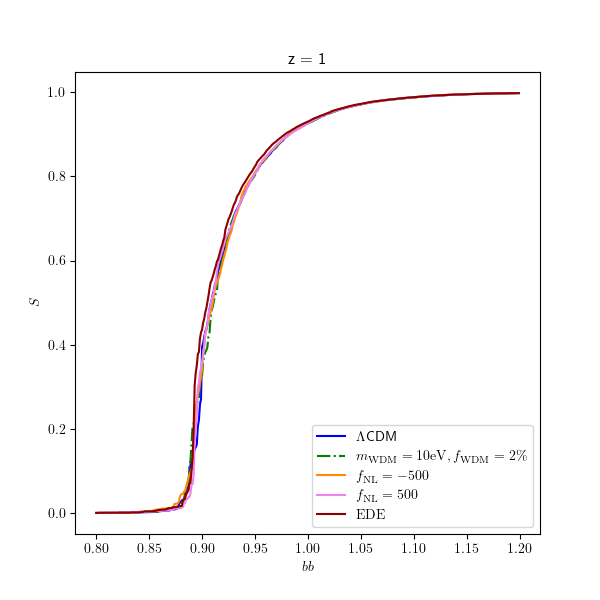
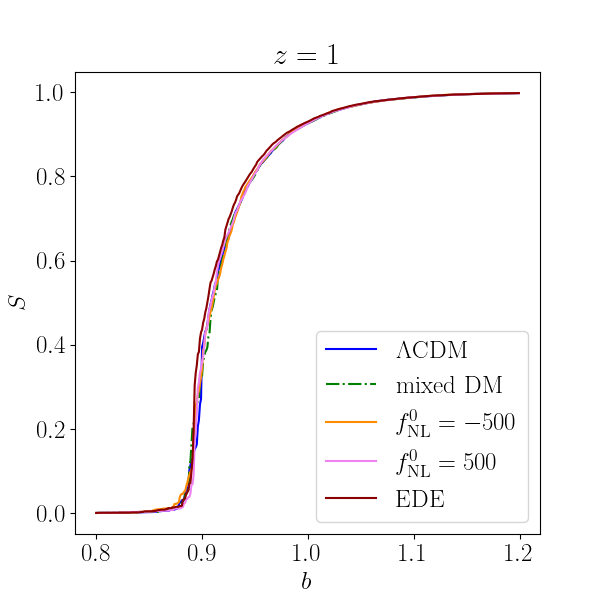
commit

diff --git a/plot_threshold_2.py b/plot_threshold_2.py
@@ -31,12 +31,13 @@ if __name__ == "__main__" :
     #snapshots = ["benchM","NG_F500","G_m500","NG_F500_m500","NG_Fminus500","NG_Fminus500_m500","G_ViVi"]
     #labels = [r"$\Lambda$CDM", "fnl = -500", "m = 500 eV", "WDM & fnl = -500", "fnl = 500", "WDM & fnl = 500",r"$m_{\rm WDM} = 10$ ev, $f_{\rm WDM}$ = 2%"]
 
-    snapshots = ["benchM","NG_F500","G_m500","NG_F500_m500","NG_Fminus500","NG_Fminus500_m500", "G_ViVi","NG_ViVi" , "NG_Fminus500_ViVi","NEDE", "NsPNG_EDE_F500"]
+    snapshots = ["benchM","NG_F500","G_m500","NG_F500_m500","NG_Fminus500","NG_Fminus500_m500", "G_ViVi","NG_ViVi" , "NG_Fminus500_ViVi","NEDE", "NsPNG_EDE_F500","NBM"]
 
-    labels = [r"$\Lambda{\rm CDM}$", "fnl = -500", "m = 500 eV", "WDM & fnl = -500", "fnl = 500", "WDM & fnl = 500", r"mixed DM", r"$f_{\rm NL}^0 = -500$ \& mixed DM", r"$f_{\rm NL}^0$ = 500 \& mixed DM", r"EDE", r"$f_{\rm NL}^0 = -300$ \& EDE", r"$f_{\rm NL}^0 = -1100$ \& EDE"]
+    labels = [r"$\Lambda{\rm CDM}$", "fnl = -500", "m = 500 eV", "WDM & fnl = -500", "fnl = 500", "WDM & fnl = 500", r"mixed DM", r"$f_{\rm NL}^0 = -500$ \& mixed DM", r"$f_{\rm NL}^0$ = 500 \& mixed DM", r"EDE", r"$f_{\rm NL}^0 = -300$ \& EDE", r"$f_{\rm NL}^0 = -1100$ \& EDE",r"$\Lambda {\rm CDM~2}$"]
 
     indices_hdm = [0,1,4,6,7,8]
     indices_hdm = [0,1,4,6,9]
+    indices_hdm = [0,12]
 
     #indices_hdm = [0,2,6] #WDM !
 
@@ -46,16 +47,16 @@ if __name__ == "__main__" :
     lss = ["-", "-", "-.", "--", "-", "--", "-", "--", "--"]
     couleurs = ["blue", "orange", "green", "orange", "fuchsia", "fuchsia", "green", "orange", "fuchsia"]
 
-    snapshots = ["benchM","NG_F500","G_m500","NG_F500_m500","NG_Fminus500","NG_Fminus500_m500", "G_ViVi","NG_ViVi" , "NG_Fminus500_ViVi","NEDE", "NsPNG_EDE_F500"]
+    snapshots = ["benchM","NG_F500","G_m500","NG_F500_m500","NG_Fminus500","NG_Fminus500_m500", "G_ViVi","NG_ViVi" , "NG_Fminus500_ViVi","NEDE", "NsPNG_EDE_F500","NBM"]
 
 
-    labels = [r"$\Lambda{\rm CDM}$", r"$f_{\rm NL}^0 = -500$", "m = 500 eV", "WDM & fnl = -500", r"$f_{\rm NL}^0 = 500$", "WDM & fnl = 500", r"${\rm mixed~DM}$", r"$f_{\rm NL}^0 = -500~\&~{\rm mixed~DM}$", r"$f_{\rm NL}^0 = 500~\&~{\rm mixed~DM}$", r"${\rm EDE}$", r"$f_{\rm NL}^0 = -300~\&~{\rm EDE}$", r"$f_{\rm NL}^0 = -1100~\&~ {\rm EDE}$"]
+    labels = [r"$\Lambda{\rm CDM}$", r"$f_{\rm NL}^0 = -500$", "m = 500 eV", "WDM & fnl = -500", r"$f_{\rm NL}^0 = 500$", "WDM & fnl = 500", r"${\rm mixed~DM}$", r"$f_{\rm NL}^0 = -500~\&~{\rm mixed~DM}$", r"$f_{\rm NL}^0 = 500~\&~{\rm mixed~DM}$", r"${\rm EDE}$", r"$f_{\rm NL}^0 = -300~\&~{\rm EDE}$", r"$f_{\rm NL}^0 = -1100~\&~ {\rm EDE}$",r"$\Lambda {\rm CDM~2}$"]
 
     #indices_hdm = [0,7,8,10,11]
     #indices_hdm = [0,2,6] #WDM !
 
-    lss = ["-", "-", "-.", "--", "-", "--", "-.", "--", "--","-",":","--"]
-    couleurs = ["blue", "darkorange", "green", "darkorange", "violet", "violet", "green", "darkorange", "violet","darkred","darkred","darkred"]
+    lss = ["-", "-", "-.", "--", "-", "--", "-.", "--", "--","-",":","--","--"]
+    couleurs = ["blue", "darkorange", "green", "darkorange", "violet", "violet", "green", "darkorange", "violet","darkred","darkred","darkred","blue"]
 
 
 

diff --git a/extremateur.py b/extremateur.py
@@ -31,12 +31,12 @@ def count_pairs_query_ball_point(points_A, tree_B, r):
 
 n = int(sys.argv[1])
 i = int(sys.argv[2])
-P = 20
+P = 5
 
 print(n, i)
 
 pre = "/data100/fcastillo/RESULT/"
-snapshots = ["benchM","NG_F500","G_m500","NG_F500_m500","NG_Fminus500","NG_Fminus500_m500", "G_ViVi","NG_ViVi" , "NG_Fminus500_ViVi","NEDE", "NsPNG_EDE_F500","NsPNG_EDE_F1833"]
+snapshots = ["benchM","NG_F500","G_m500","NG_F500_m500","NG_Fminus500","NG_Fminus500_m500", "G_ViVi","NG_ViVi" , "NG_Fminus500_ViVi","NEDE", "NsPNG_EDE_F500","NsPNG_EDE_F1833","NBM"]
 data = pre + snapshots[n]+"/"+str(i)+"_densite.fits"
 
 R = 2
@@ -87,8 +87,8 @@ x = np.arange(512)
 y = np.arange(512)
 z = np.arange(512)
 
-for j in [0,1] :
-    for k in [2,3] :
+for j in range(4) :
+    for k in range(j,4) :
 
         print(j, k)
         result_k = result[result[:,3]==k][:,0:3] % 512
@@ -126,10 +126,13 @@ for j in [0,1] :
         tree_r = KDTree(data_random, boxsize=512)
 
         r_small = np.linspace(0.1, 10, 80)  # 10 points entre 0 et 1
-        r_large = np.geomspace(10, 40, 40)  # 30 points entre 1 et 40 (logarithmique)
+        if ((j==0 and k==2) or (j==0 and k ==3) or (j==1 and k==2) or (j==1 and k ==3)):
+            r_large = np.geomspace(10, 40, 40)  # 30 points entre 1 et 40 (logarithmique)
+        else :
+            r_large = np.geomspace(10, 40, 20)  # 30 points entre 1 et 40 (logarithmique)
         r_bins = np.concatenate((r_small, r_large))
 
-        r_bins=np.linspace(40,80,10)
+        #r_bins=np.linspace(40,80,10)
 
         DD_counts = np.array([count_pairs_query_ball_point(points_k, KDTree(points_j, boxsize=512), r)
                             for r in r_bins[1:]])
@@ -149,4 +152,8 @@ for j in [0,1] :
         print(DRj_counts)
         print(correlation, np.array(correlation))
 
-        np.save(f"/data100/fcastillo/RESULT/extrema/snapshot_{n}_{i}_zeta_{k}_{j}_s{R}_P{P}_tres_grand_tres_loin.txt", np.array(correlation))
+        if ((j==0 and k==2) or (j==0 and k ==3) or (j==1 and k==2) or (j==1 and k ==3)):
+            np.save(f"/data100/fcastillo/RESULT/extrema/snapshot_{n}_{i}_zeta_{k}_{j}_s{R}_P{P}_tres_grand_loin.txt", np.array(correlation))
+        else:
+            np.save(f"/data100/fcastillo/RESULT/extrema/snapshot_{n}_{i}_zeta_{k}_{j}_s{R}_P{P}_tres_grand.txt", np.array(correlation))
+

diff --git a/plot_correlations_2.py b/plot_correlations_2.py
@@ -32,17 +32,18 @@ if __name__ == "__main__" :
     #labels = [r"$\Lambda$CDM", "fnl = -500", "m = 500 eV", "WDM & fnl = -500", "fnl = 500", "WDM & fnl = 500",r"$m_{\rm WDM} = 10$ ev, $f_{\rm WDM}$ = 2%"]
 
     snapshots = ["benchM","NG_F500","G_m500","NG_F500_m500","NG_Fminus500","NG_Fminus500_m500", "G_ViVi", "NG_ViVi", "NG_Fminus500_ViVi"]
-    snapshots = ["benchM","NG_F500","G_m500","NG_F500_m500","NG_Fminus500","NG_Fminus500_m500", "G_ViVi","NG_ViVi" , "NG_Fminus500_ViVi","NEDE", "NsPNG_EDE_F500","NsPNG_EDE_F1833"]
+    snapshots = ["benchM","NG_F500","G_m500","NG_F500_m500","NG_Fminus500","NG_Fminus500_m500", "G_ViVi","NG_ViVi" , "NG_Fminus500_ViVi","NEDE", "NsPNG_EDE_F500","NsPNG_EDE_F1833","NBM"]
 
 
-    labels = [r"$\Lambda{\rm CDM}$", r"$f_{\rm NL}^0 = -500$", "m = 500 eV", "WDM & fnl = -500", r"$f_{\rm NL}^0 = 500$", "WDM & fnl = 500", r"${\rm mixed~DM}$", r"$f_{\rm NL}^0 = -500~\&~{\rm mixed~DM}$", r"$f_{\rm NL}^0 = 500~\&~{\rm mixed~DM}$", r"${\rm EDE}$", r"$f_{\rm NL}^0 = -300~\&~{\rm EDE}$", r"$f_{\rm NL}^0 = -1100~\&~{\rm EDE}$"]
+    labels = [r"$\Lambda{\rm CDM}$", r"$f_{\rm NL}^0 = -500$", "m = 500 eV", "WDM & fnl = -500", r"$f_{\rm NL}^0 = 500$", "WDM & fnl = 500", r"${\rm mixed~DM}$", r"$f_{\rm NL}^0 = -500~\&~{\rm mixed~DM}$", r"$f_{\rm NL}^0 = 500~\&~{\rm mixed~DM}$", r"${\rm EDE}$", r"$f_{\rm NL}^0 = -300~\&~{\rm EDE}$", r"$f_{\rm NL}^0 = -1100~\&~{\rm EDE}$",r"$\Lambda {\rm CDM~2}$"]
 
     indices_hdm = [0,7,8,10,11]
     #indices_hdm = [0,2,6]
-    #indices_hdm = [0,1,4,6,9]
+    indices_hdm = [0,1,4,6,9]
+    indices_hdm = [0,12]
 
-    ls = ["-", "-", "-.", "--", "-", "--", "-.", "--", "--","-",":","--"]
-    couleurs = ["blue", "darkorange", "green", "darkorange", "violet", "violet", "green", "darkorange", "violet","darkred","darkred","darkred"]
+    ls = ["-", "-", "-.", "--", "-", "--", "-.", "--", "--","-",":","--","--"]
+    couleurs = ["blue", "darkorange", "green", "darkorange", "violet", "violet", "green", "darkorange", "violet","darkred","darkred","darkred","blue"]
 
 
 
@@ -319,6 +320,8 @@ if __name__ == "__main__" :
         k +=1
 
         for p in range(4):
+
+            _type = ["PW", "PV", "FW","FV"] [p]
 
             for d in range(2):
                 place = places[str(p) + str(d)]

diff --git a/plot_percolation.py b/plot_percolation.py
@@ -9,7 +9,7 @@ from skeletonnateur_hpc import*
 from matplotlib import gridspec
 import matplotlib
 
-
+matplotlib.rcParams.update({'font.size': 18})
 matplotlib.rcParams['text.usetex'] = True
 matplotlib.rcParams["figure.facecolor"]='w'
 matplotlib.rcParams['text.latex.preamble'] = r'\usepackage{amsmath}'
@@ -50,7 +50,7 @@ if __name__ == "__main__" :
     couleurs = ["blue", "darkred", "darkred","darkorange","violet"]
 
     snapshots = ["benchM", "G_ViVi","NG_F500", "NG_Fminus500","NEDE"]
-    labels = [r"$\Lambda$CDM", r"$m_{\rm WDM} = 10  {\rm eV}, f_{\rm WDM} = 2 \%$",  r"$f_{\rm NL} = -500$", r"$f_{\rm NL} = 500$ ", r"${\rm EDE}$"]
+    labels = [r"$\Lambda {\rm CDM}$", r"${\rm mixed~DM}$",  r"$f_{\rm NL}^0 = -500$", r"$f_{\rm NL}^0 = 500$ ", r"${\rm EDE}$"]
 
 
     lss = ["-", "-.", "-",  "-","-"]
@@ -86,7 +86,7 @@ if __name__ == "__main__" :
 
         axes = plt.gca()
 
-        axes.title.set_text (f"z = {Redshifts[i]}")
+        axes.title.set_text (r"$z = "+f"{Redshifts[i]}"+r"$")
 
 
         for j in range(len(snapshots)):
@@ -106,7 +106,7 @@ if __name__ == "__main__" :
 
                 axes.plot(np.arange(0.8,1.2,0.001),percole, color= couleur, ls = ls, label=label)
                 axes.set_ylabel(r"$S$")
-                axes.set_xlabel(r"$bb$")
+                axes.set_xlabel(r"$b$")
 
                 axes.legend() 
             
@@ -172,15 +172,16 @@ if __name__ == "__main__" :
 
             axes.set_xlabel(r"$z$")
             if d == 0 : axs[d].set_ylabel(r"${\rm Phase~transition}$")
-            if d == 1 : axs[d].set_ylabel(r"$\Delta / \Lambda$CDM")
+            if d == 1 : axs[d].set_ylabel(r"$\Delta / \Lambda {\rm CDM}$")
 
-            if d == 0 : axs[d].legend(fontsize=8)
+            #if d == 0 : axs[d].legend(fontsize=12)
 
 
 
     axs[0].invert_xaxis()
     axs[1].invert_xaxis()
 
+    plt.tight_layout()
     plt.savefig(f"percole_transition.pdf")
     plt.savefig(f"percole_transition.png")
 

diff --git a/plot_delta.py b/plot_delta.py
@@ -16,7 +16,7 @@ matplotlib.rcParams["figure.facecolor"]='w'
 matplotlib.rcParams['text.latex.preamble'] = r'\usepackage{amsmath}'
 
 snapshots = ["benchM","NG_F500","G_m500","NG_F500_m500","NG_Fminus500","NG_Fminus500_m500", "G_ViVi","NG_ViVi" , "NG_Fminus500_ViVi","NEDE", "NsPNG_EDE_F500","NsPNG_EDE_F1833"]
-labels = [r"$\Lambda$CDM", r"$f_{\rm NL} = -500$", "m = 500 eV", "WDM & fnl = -500", r"$f_{\rm NL} = 500$", "WDM & fnl = 500", r"$m_{\rm WDM} = 10~{\rm eV}, f_{\rm WDM} = 2~\%$", r"$f_{\rm NL} = -500~\&~{\rm mixed~DM}$", r"$f_{\rm NL} = 500~\&~{\rm mixed~DM}$", r"${\rm EDE}$", r"$f_{\rm NL} = -300~\&~{\rm EDE}$", r"$f_{\rm NL} = -1100~\&~{\rm EDE}$"]
+labels = [r"$\Lambda {\rm CDM}$", r"$f_{\rm NL}^0 = -500$", "m = 500 eV", "WDM & fnl = -500", r"$f_{\rm NL}^0 = 500$", "WDM & fnl = 500", r"$m_{\rm WDM} = 10~{\rm eV}, f_{\rm WDM} = 2~\%$", r"$f_{\rm NL} = -500~\&~{\rm mixed~DM}$", r"$f_{\rm NL} = 500~\&~{\rm mixed~DM}$", r"${\rm EDE}$", r"$f_{\rm NL} = -300~\&~{\rm EDE}$", r"$f_{\rm NL} = -1100~\&~{\rm EDE}$"]
 
 z= [15,12, 10, 8, 5,3,1,0.5,0.25,0]
 indices_z = [5,6,8,9]
@@ -54,7 +54,7 @@ if True : #for Xmax in [50,100,500]:
             z = redshifts[i]
             print(z)
 
-            axes.set_ylabel(r"PDF")
+            axes.set_ylabel(r"${\rm PDF}$")
             data = pre + snapshots[n]+"/"+str(z)+"_densite_smooth2.fits"
 
             hdul = fits.open(data)

diff --git a/plot_minkowski2.py b/plot_minkowski2.py
@@ -54,6 +54,20 @@ if __name__ == "__main__" :
     ls = ["-", "-.", "-",  "-","-"]
     couleurs = ["blue", "green", "darkorange","violet","darkred"]
 
+    snapshots = ["benchM", "G_m500","G_ViVi"]
+    labels = [r"$\Lambda{\rm CDM}$", r"$m_{\rm WDM} = 500 {\rm ~eV}$", r"${\rm mixed~DM}$"]
+
+
+    ls = ["-", "-", "-."]
+    couleurs = ["blue", "green", "green"]
+
+    snapshots = ["benchM", "NBM"]
+    labels = [r"$\Lambda{\rm CDM}$", r"$\Lambda{\rm CDM~2}$"]
+
+
+    ls = ["-", "--"]
+    couleurs = ["blue", "blue"]
+
 
     plt.figure(figsize=(15,10))
     places = {
@@ -152,7 +166,7 @@ if __name__ == "__main__" :
                         else :
                             axes.plot(X[mask], ((data[p][mask] - lcdm[p][mask])), color=couleurs[j], ls=ls[j],label=labels[j])
                             axes.set_ylabel(r"$\Delta$")
-                        if d ==1 and i == len(snapshots)-1: axes.set_xlabel(r"${\rm threshold}~[\sigma]$")
+                        if d ==1 and i == 4: axes.set_xlabel(r"${\rm threshold}~[\sigma]$")
                         if j == len(snapshots)-1 and i == 1 and d == 0 and p == 0: 
                             pass#axes.legend(fontsize=12) 
 

diff --git a/dispersateur_tout.py b/dispersateur_tout.py
@@ -6,12 +6,13 @@ import time
 
 pre = "/data100/fcastillo/RESULT/"
 #snapshots = ["benchM","NG_F500","G_m500","NG_F500_m500","NG_Fminus500","NG_Fminus500_m500", "G_ViVi", "NG_ViVi", "NG_Fminus500_ViVi"]
-snapshots = ["SIM0N_BIG","SIM1N_BIG","SIM2N_BIG","SIM3N_BIG"]
+#snapshots = ["SIM0N_BIG","SIM1N_BIG","SIM2N_BIG","SIM3N_BIG"]
+snapshots = ["NBM"]
 
 z= [15,12, 10, 8, 5,3,1,0.5,0.25,0]
 indices_z = [5,6,8,9]
 
-for n in range(4):
+for n in range(1):
     fichier = open(f"../bash/mse_{n}.sh","w")
     fichier.write(f"""#!/bin/bash
 #SBATCH --job-name=skl2_{n}
@@ -19,7 +20,7 @@ for n in range(4):
 #SBATCH --nodes=1
 #SBATCH --time=48:00:00
 #SBATCH --partition=pscomp
-#SBATCH --nodelist=i02,i03
+#SBATCH --nodelist=i31,i32
 #SBATCH --ntasks=128
 #SBATCH --output=/home/fcastillo/logs/skl2_{n}.out
 """)
@@ -36,14 +37,14 @@ module load disperse/0.9.24""")
 
         input_ = pre + snapshots[n]+"/"+str(i)+"_densite"
 
-
+        z = indices_z[i]
 
 
         fichier.write(f"""
 path_dat="{pre+snapshots[n]}/"
 path="{pre+snapshots[n]}/"
 
-file="{i}_densite_smooth2"
+file="{z}_densite_smooth2"
 
 persistence=0.1
 smoothing=1

diff --git a/extrema_bash.py b/extrema_bash.py
@@ -5,7 +5,7 @@ import numpy as np
 import time
 
 pre = "/data100/fcastillo/RESULT/"
-snapshots = ["benchM","NG_F500","G_m500","NG_F500_m500","NG_Fminus500","NG_Fminus500_m500","G_ViVi", "NG_ViVi","NG_Fminus500_ViVi","NEDE","NsPNG_EDE_F500","NsPNG_EDE_F1833"]
+snapshots = ["benchM","NG_F500","G_m500","NG_F500_m500","NG_Fminus500","NG_Fminus500_m500","G_ViVi", "NG_ViVi","NG_Fminus500_ViVi","NEDE","NsPNG_EDE_F500","NsPNG_EDE_F1833", "NBM"]
 
 indices_hdm = [0,1,4,6,7,8,9,10,11]
 indices_z = [6,9]
@@ -13,7 +13,7 @@ indices_z = [6,9]
 #indices_hdm = [0,2,6]
 #indices_hdm = [0,1,4,6,9]
 
-for n in indices_hdm: # 7
+for n in [12]: # 7
     if n <= 8 : redshifts = [2,4]
     else : redshifts = indices_z
     for i in redshifts:
@@ -28,7 +28,7 @@ for n in indices_hdm: # 7
 #SBATCH --output=/home/fcastillo/logs/extrema_{n}_{i}.out
 #SBATCH --partition=pscomp
 #SBATCH --ntasks-per-node=128
-#SBATCH --nodelist=i35,i36
+#SBATCH --nodelist=i31,i32
 """)
         fichier.write("""
 

diff --git a/minkowskiteur.py b/minkowskiteur.py
@@ -8,8 +8,9 @@ import time
 #snapshots = ["benchM","NG_F500","G_m500","NG_F500_m500","NG_Fminus500","NG_Fminus500_m500"]
 pre = "/data77/stahl/Scale/Nb/WDM/ViVi/"
 snapshots = ["G_ViVi","NG_Fminus500_ViVi","NG_ViVi"]
+snapshots=["NBM"]
 
-for n in range(7):
+for n in range(1):
     if True :#for i in range(5):
 
 
@@ -17,13 +18,13 @@ for n in range(7):
         fichier.write(f"""#!/bin/bash
 #SBATCH --job-name=minkowski_{n}
 #SBATCH --nodes=1
-#SBATCH --ntasks=32
-#SBATCH --ntasks-per-node=32
+#SBATCH --ntasks=128
+#SBATCH --ntasks-per-node=128
 #SBATCH --mem=100gb
 #SBATCH --time=48:00:00
 #SBATCH --output=/home/fcastillo/logs/minkowski_{n}.out
 #SBATCH --partition=pscomp
-#SBATCH --nodelist=i28,i29
+#SBATCH --nodelist=i31,i32
 """)
         fichier.write("""
 

diff --git a/extrema_threshold.py b/extrema_threshold.py
@@ -23,14 +23,14 @@ import sys
 
 R = 2
 
-for n in range(9,12):
+for n in [12]:
     for i in [5,6,9]:
 
 
         print(n, i)
 
         pre = "/data100/fcastillo/RESULT/"
-        snapshots = ["benchM","NG_F500","G_m500","NG_F500_m500","NG_Fminus500","NG_Fminus500_m500", "G_ViVi","NG_ViVi" , "NG_Fminus500_ViVi","NEDE", "NsPNG_EDE_F500","NsPNG_EDE_F1833"]
+        snapshots = ["benchM","NG_F500","G_m500","NG_F500_m500","NG_Fminus500","NG_Fminus500_m500", "G_ViVi","NG_ViVi" , "NG_Fminus500_ViVi","NEDE", "NsPNG_EDE_F500","NsPNG_EDE_F1833","NBM"]
 
         data = pre + snapshots[n]+"/"+str(i)+"_densite.fits"
         #data0 = pre + snapshots[n]+"/"+str(0)+"_densite.fits"

diff --git a/minkowski.py b/minkowski.py
@@ -11,6 +11,7 @@ n = int(sys.argv[1])
 
 
 snapshots = ["NEDE","NsPNG_F500","NsPNG_F1000","NsPNG_F1833","NsPNG_EDE_F500","NsPNG_EDE_F1000","NsPNG_EDE_F1833"]
+snapshots=["NBM"]
 
 z= [15,12, 10, 8, 5,3,1,0.5,0.25,0]
 indices_z = [5,6,8,9]
@@ -35,6 +36,14 @@ for i in indices_z :
     print(np.shape(result))
     np.save(f"{pre+snapshots[n]}/{i}_minkowski.txt", result)
     print("ok")
+
+    v0,v1,v2,v3 = calculateMFs(data,min_sig=-1,max_sig=1,step=0.02)
+
+    result = np.array([v0,v1,v2,v3])
+    print(np.shape(result))
+    np.save(f"{pre+snapshots[n]}/{i}_minkowski_zoom.txt", result)
+    print("zoom ok")
+
 
 """
 plt.plot(v0,label="v0")

diff --git a/extrema_bash_threshold.py b/extrema_bash_threshold.py
@@ -5,9 +5,9 @@ import numpy as np
 import time
 
 pre = "/data100/fcastillo/RESULT/"
-snapshots = ["benchM","NG_F500","G_m500","NG_F500_m500","NG_Fminus500","NG_Fminus500_m500"]
+snapshots = ["benchM","NG_F500","G_m500","NG_F500_m500","NG_Fminus500","NG_Fminus500_m500","NBM"]
 
-for n in range(9,12):
+for n in [12]:
     for i in [5,6,9]:
 
         #input_ = pre + snapshots[n]+"/"+str(i)+"_densite"
